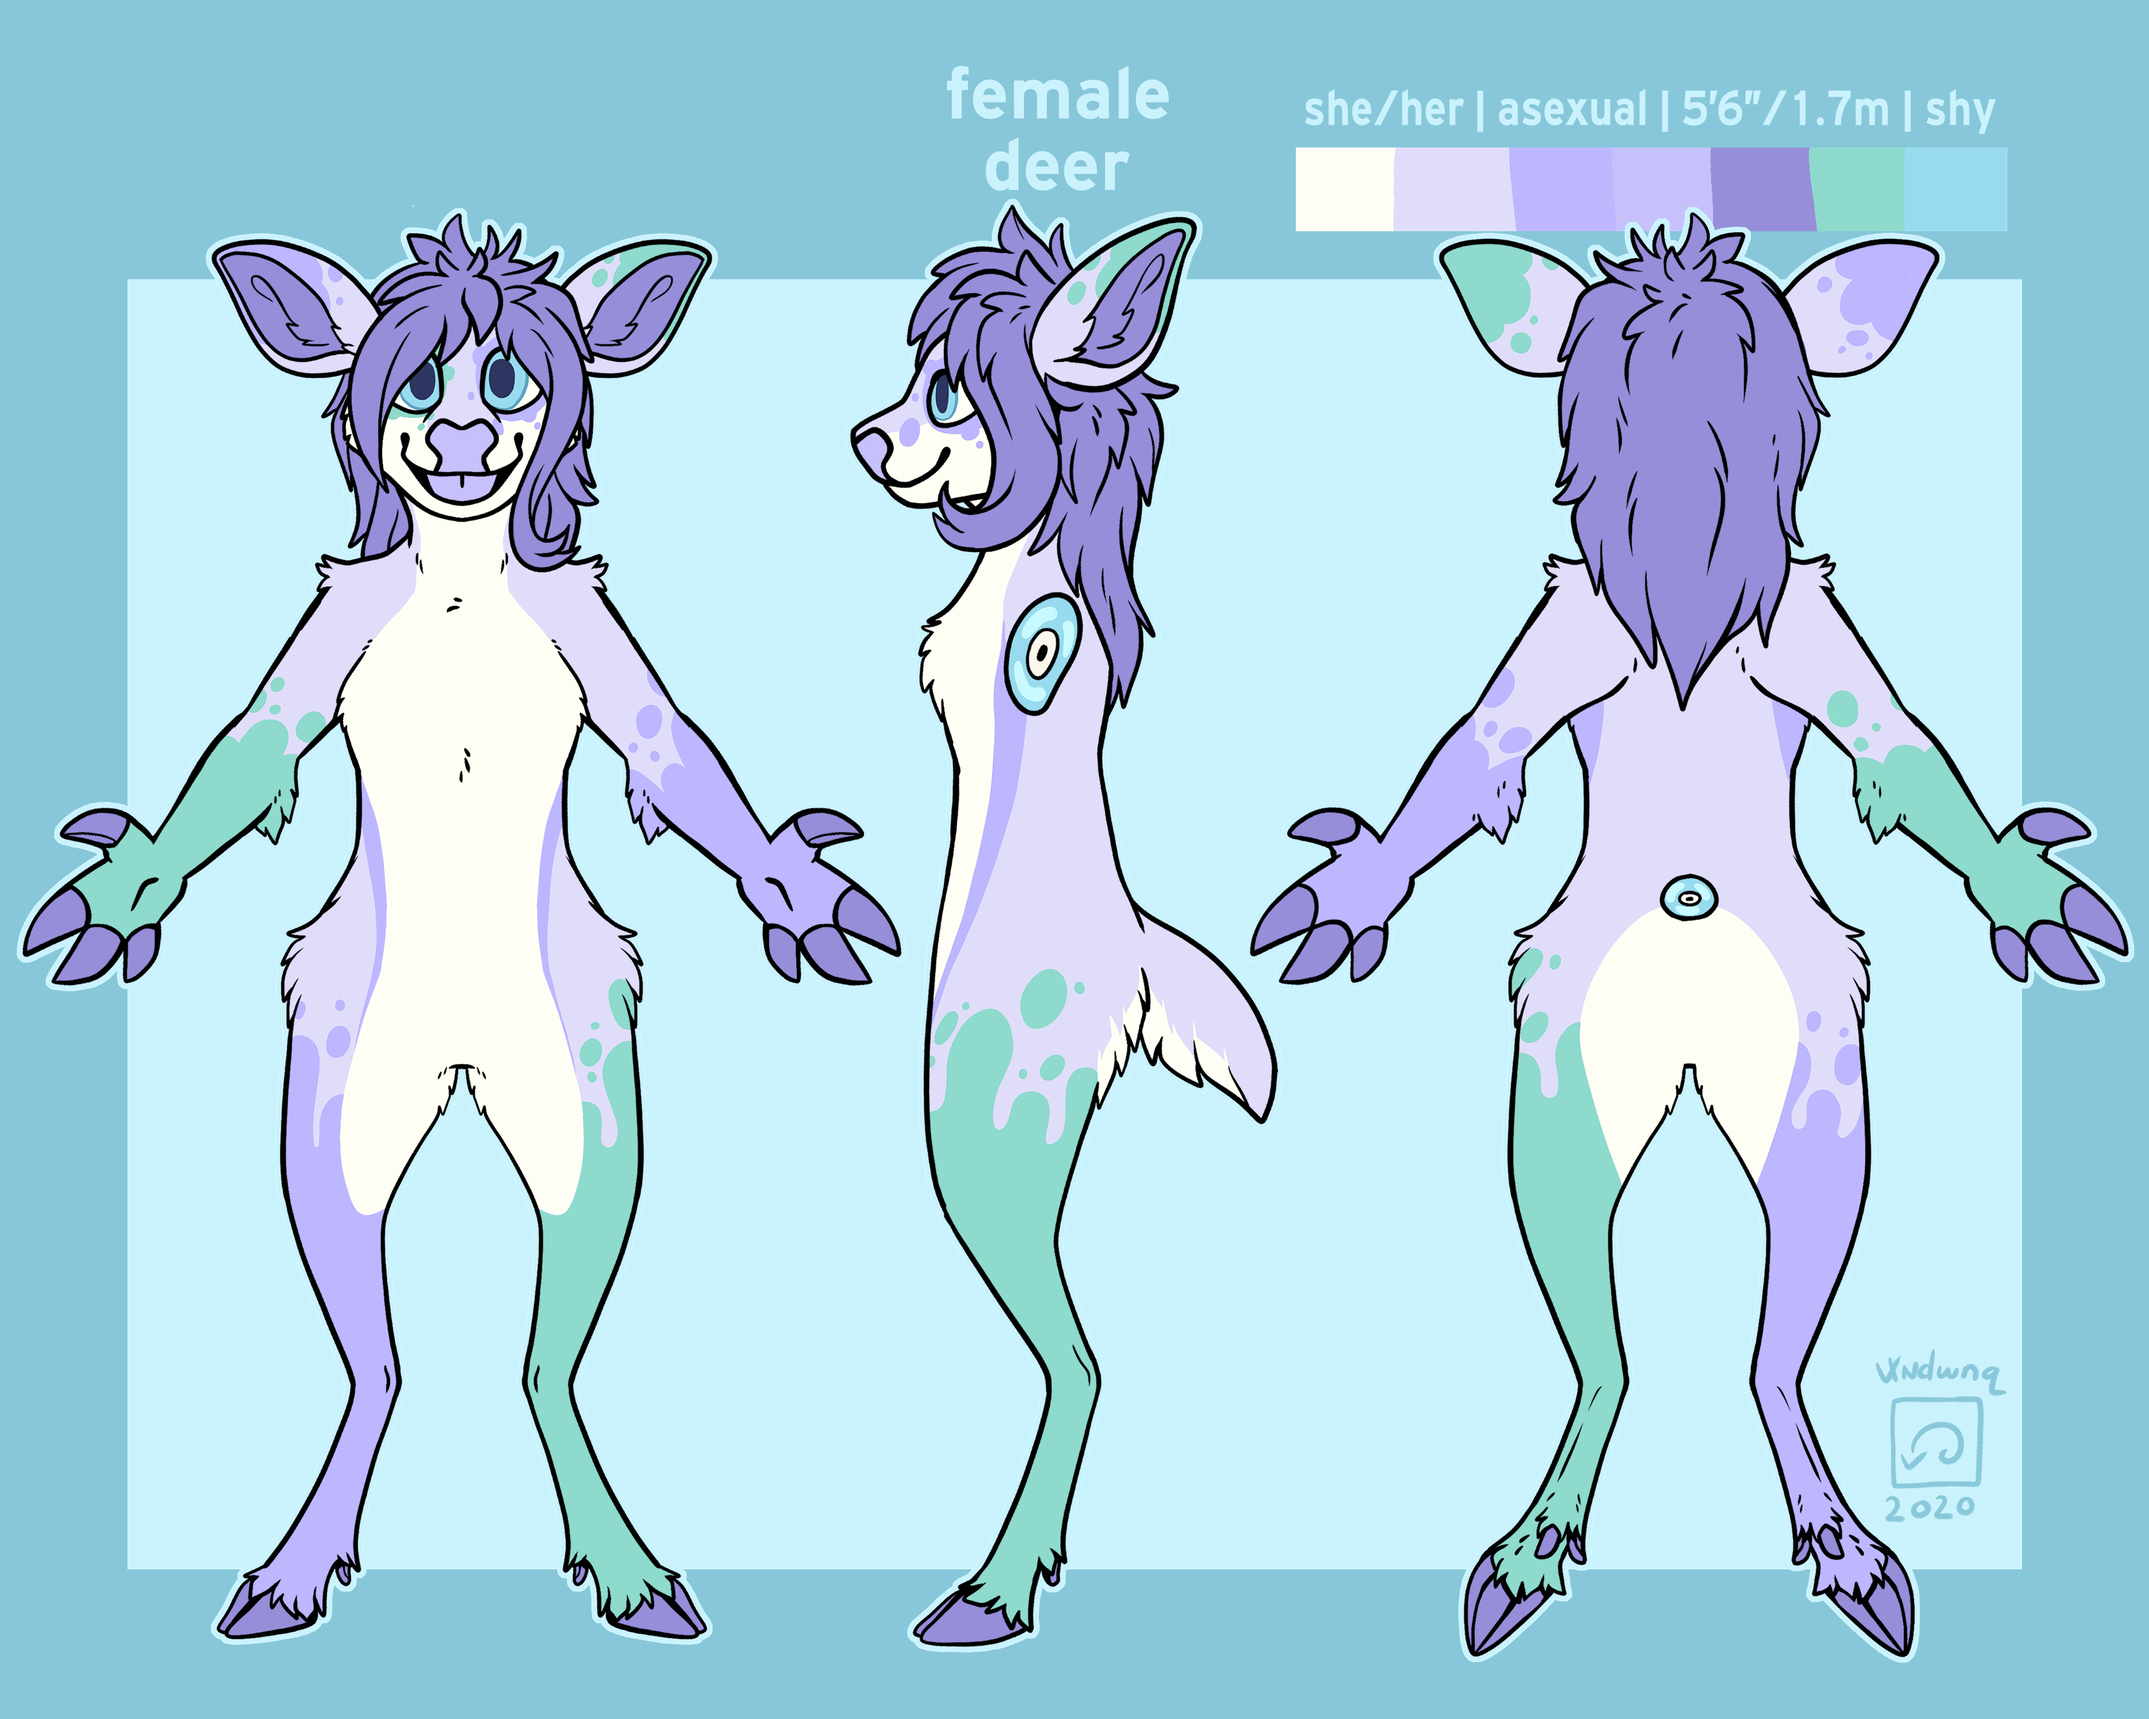
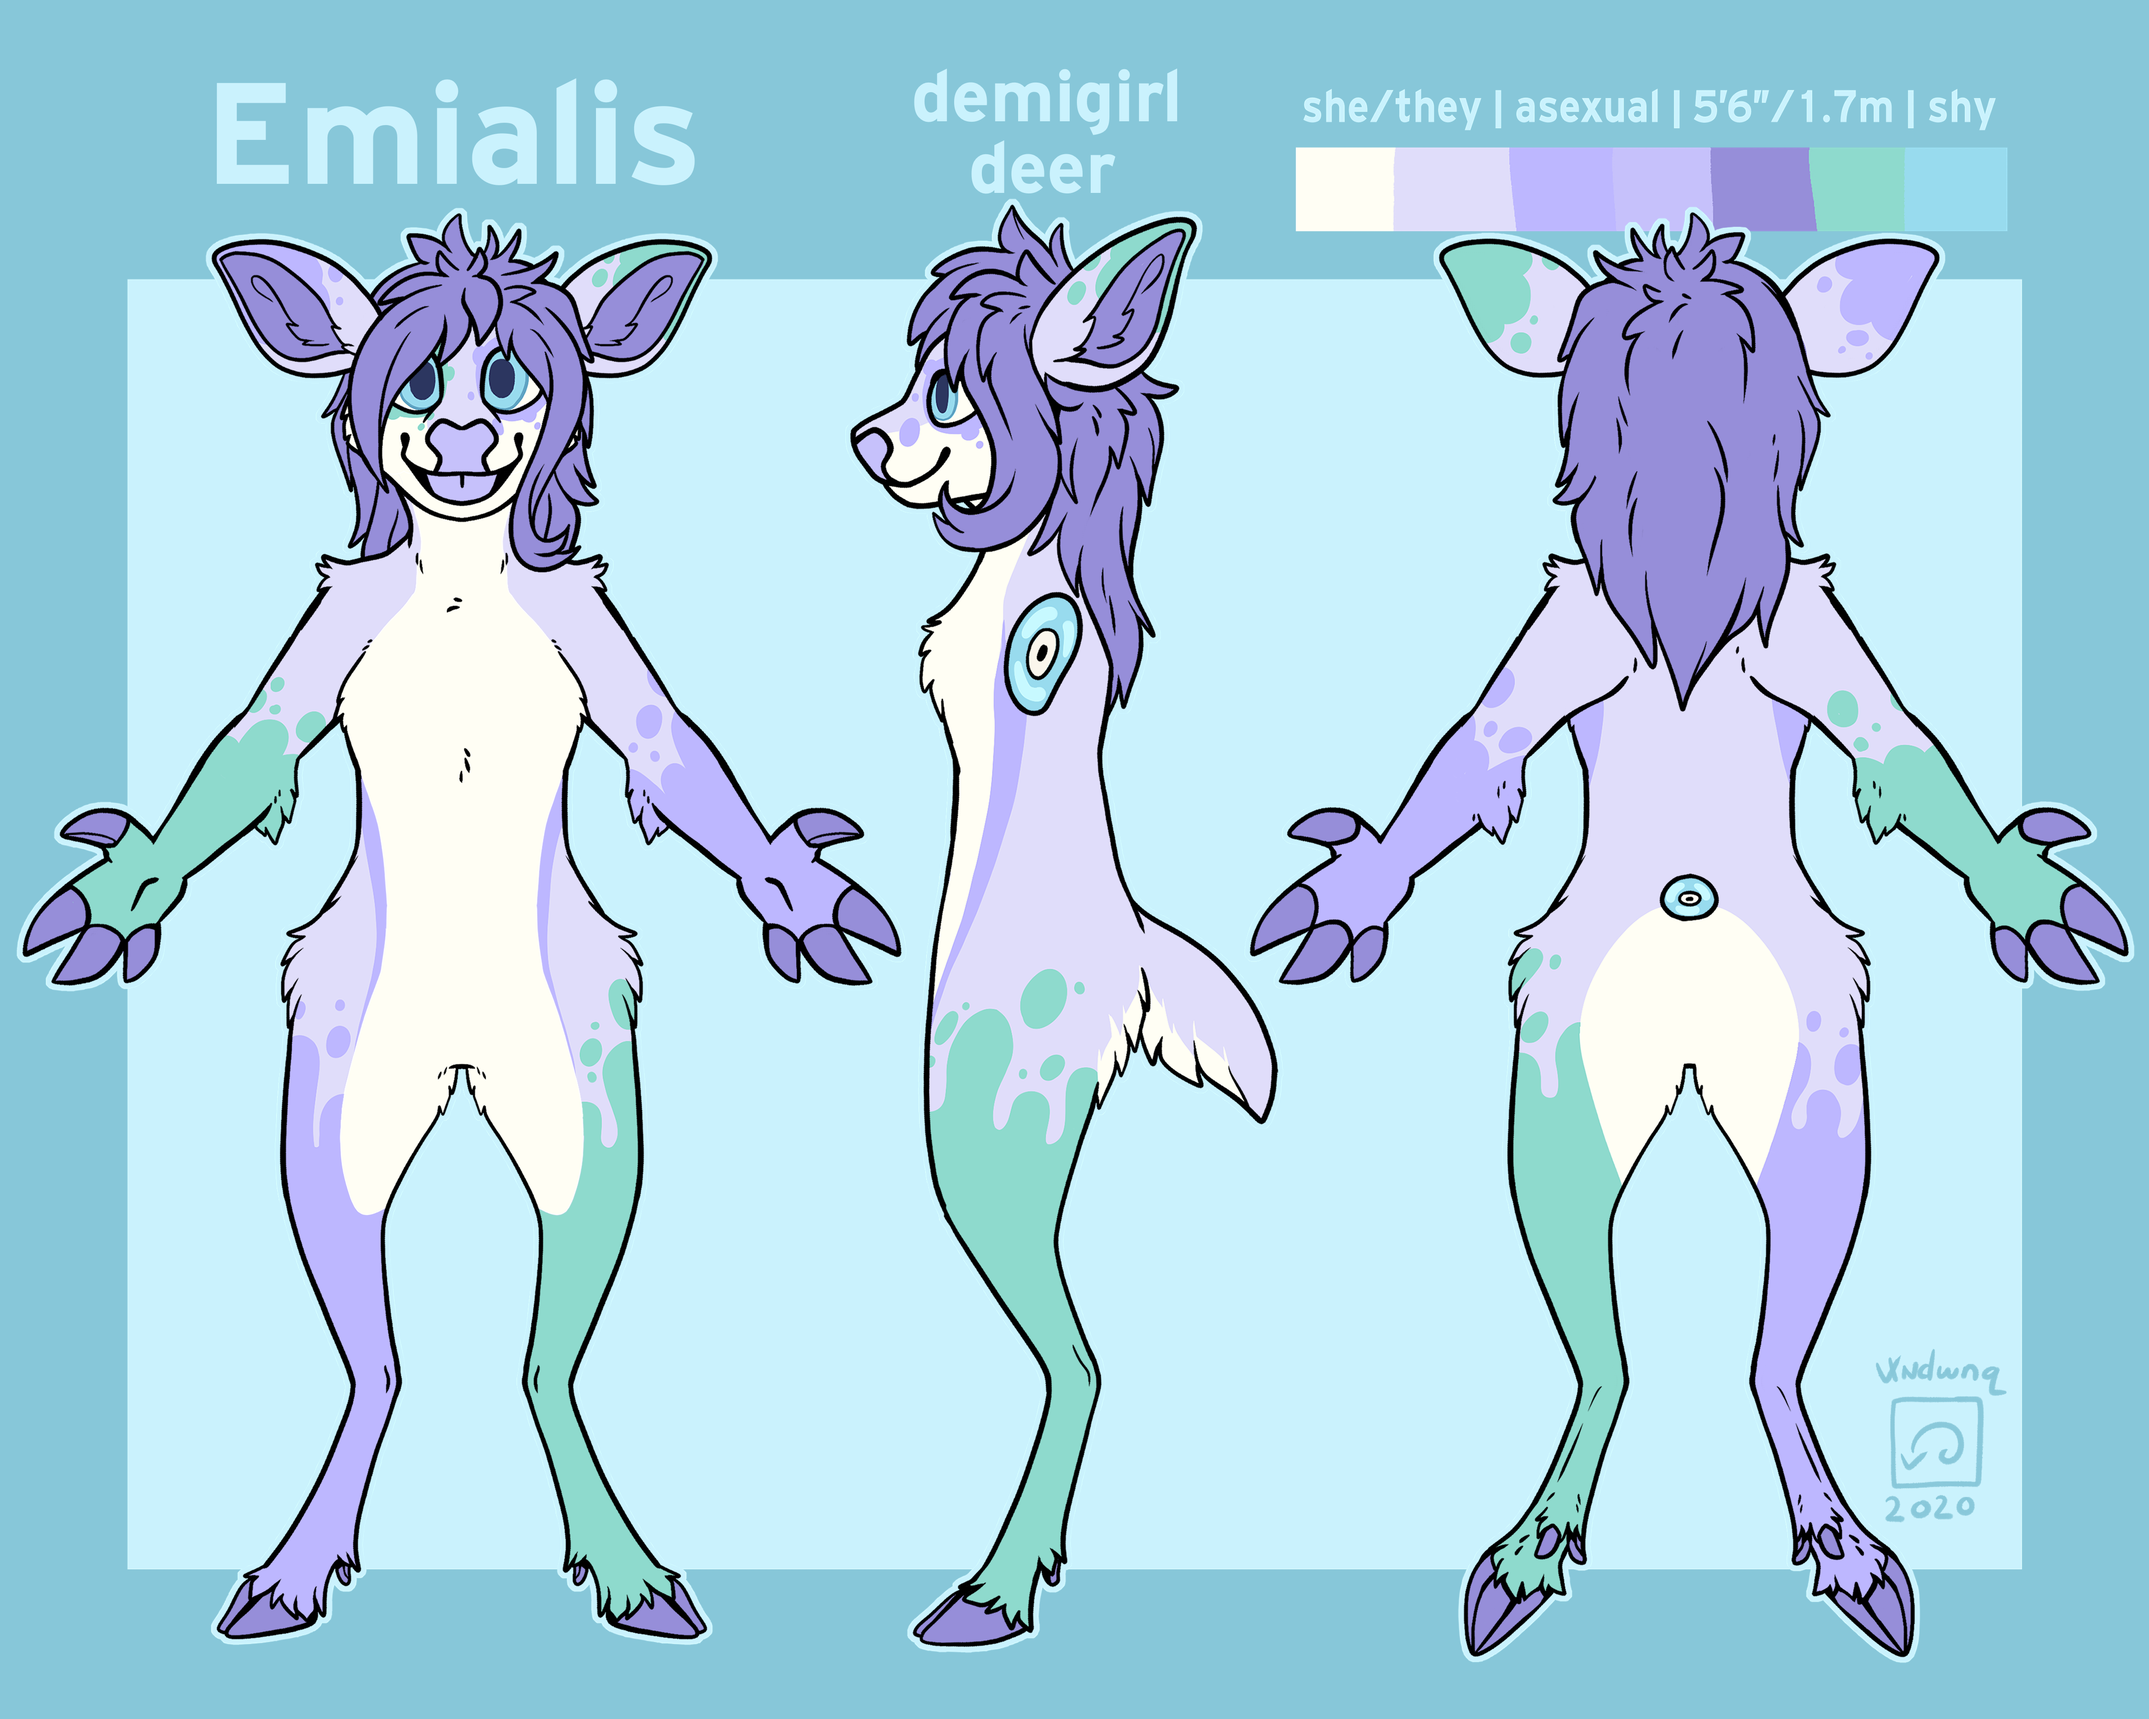
new refs, white text & add support for future owos

Changed region(s): [[0.0933, 0.0311, 0.3422, 0.1244], [0.6222, 0.0311, 0.9022, 0.0933], [0.4356, 0.0311, 0.56, 0.1244]]

diff --git a/public/css/styles.css b/public/css/styles.css
@@ -292,3 +292,20 @@ section .title,
 .is-red-gradient {
     background-image: linear-gradient(141deg, #d3516d 0, #dd5c5c 71%, #e74e3a 100%)
 }
+
+/*
+ *
+ * owo
+ *
+ */
+
+.nsfw-warning {
+    z-index: 10;
+    position: absolute; 
+    bottom: 0;
+    background: rgba(0, 0, 0, 0.5);
+    width: 100%;
+    text-align: center;
+    padding: 5px;
+    user-select: none;
+}
